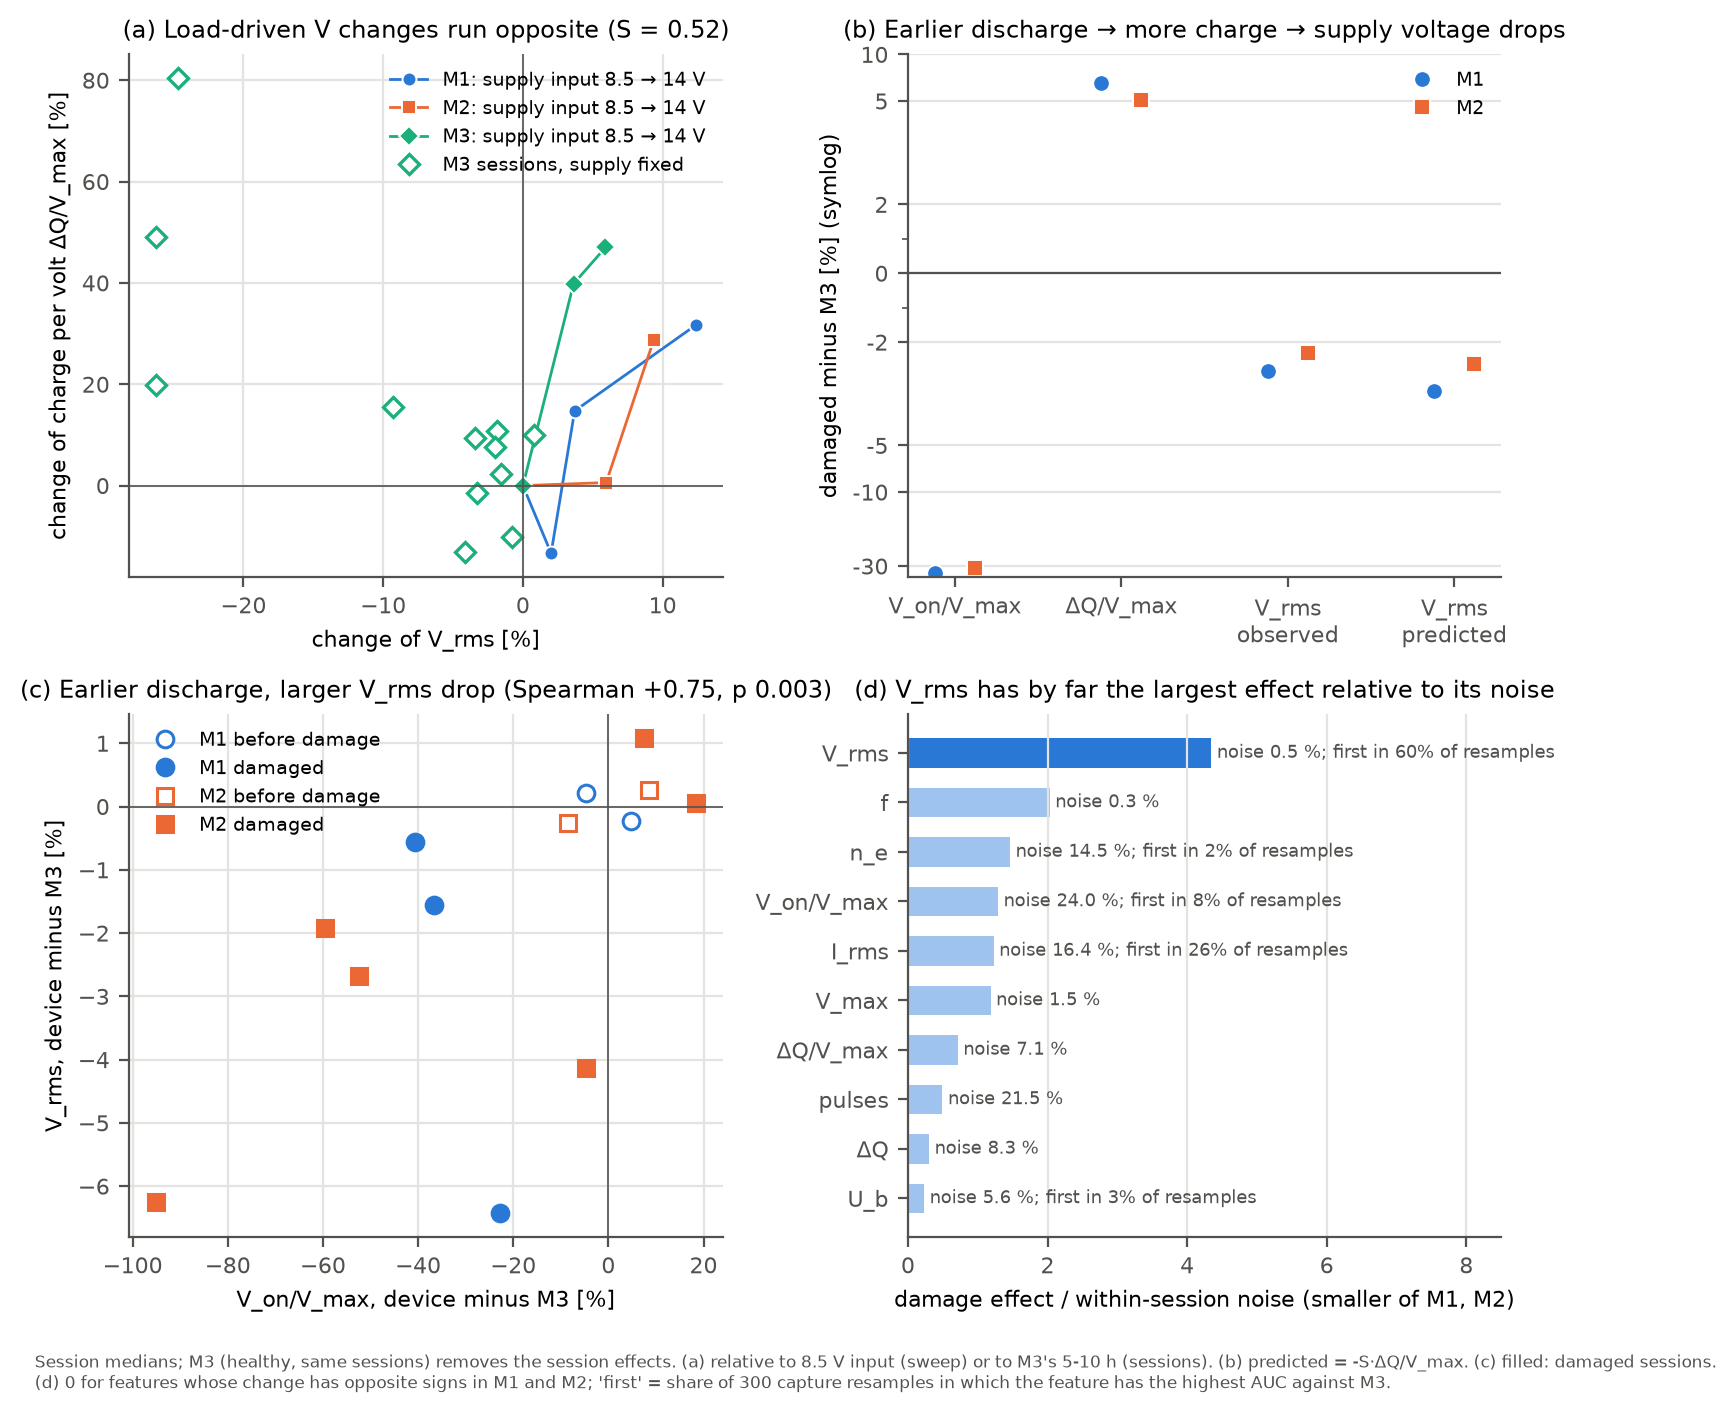
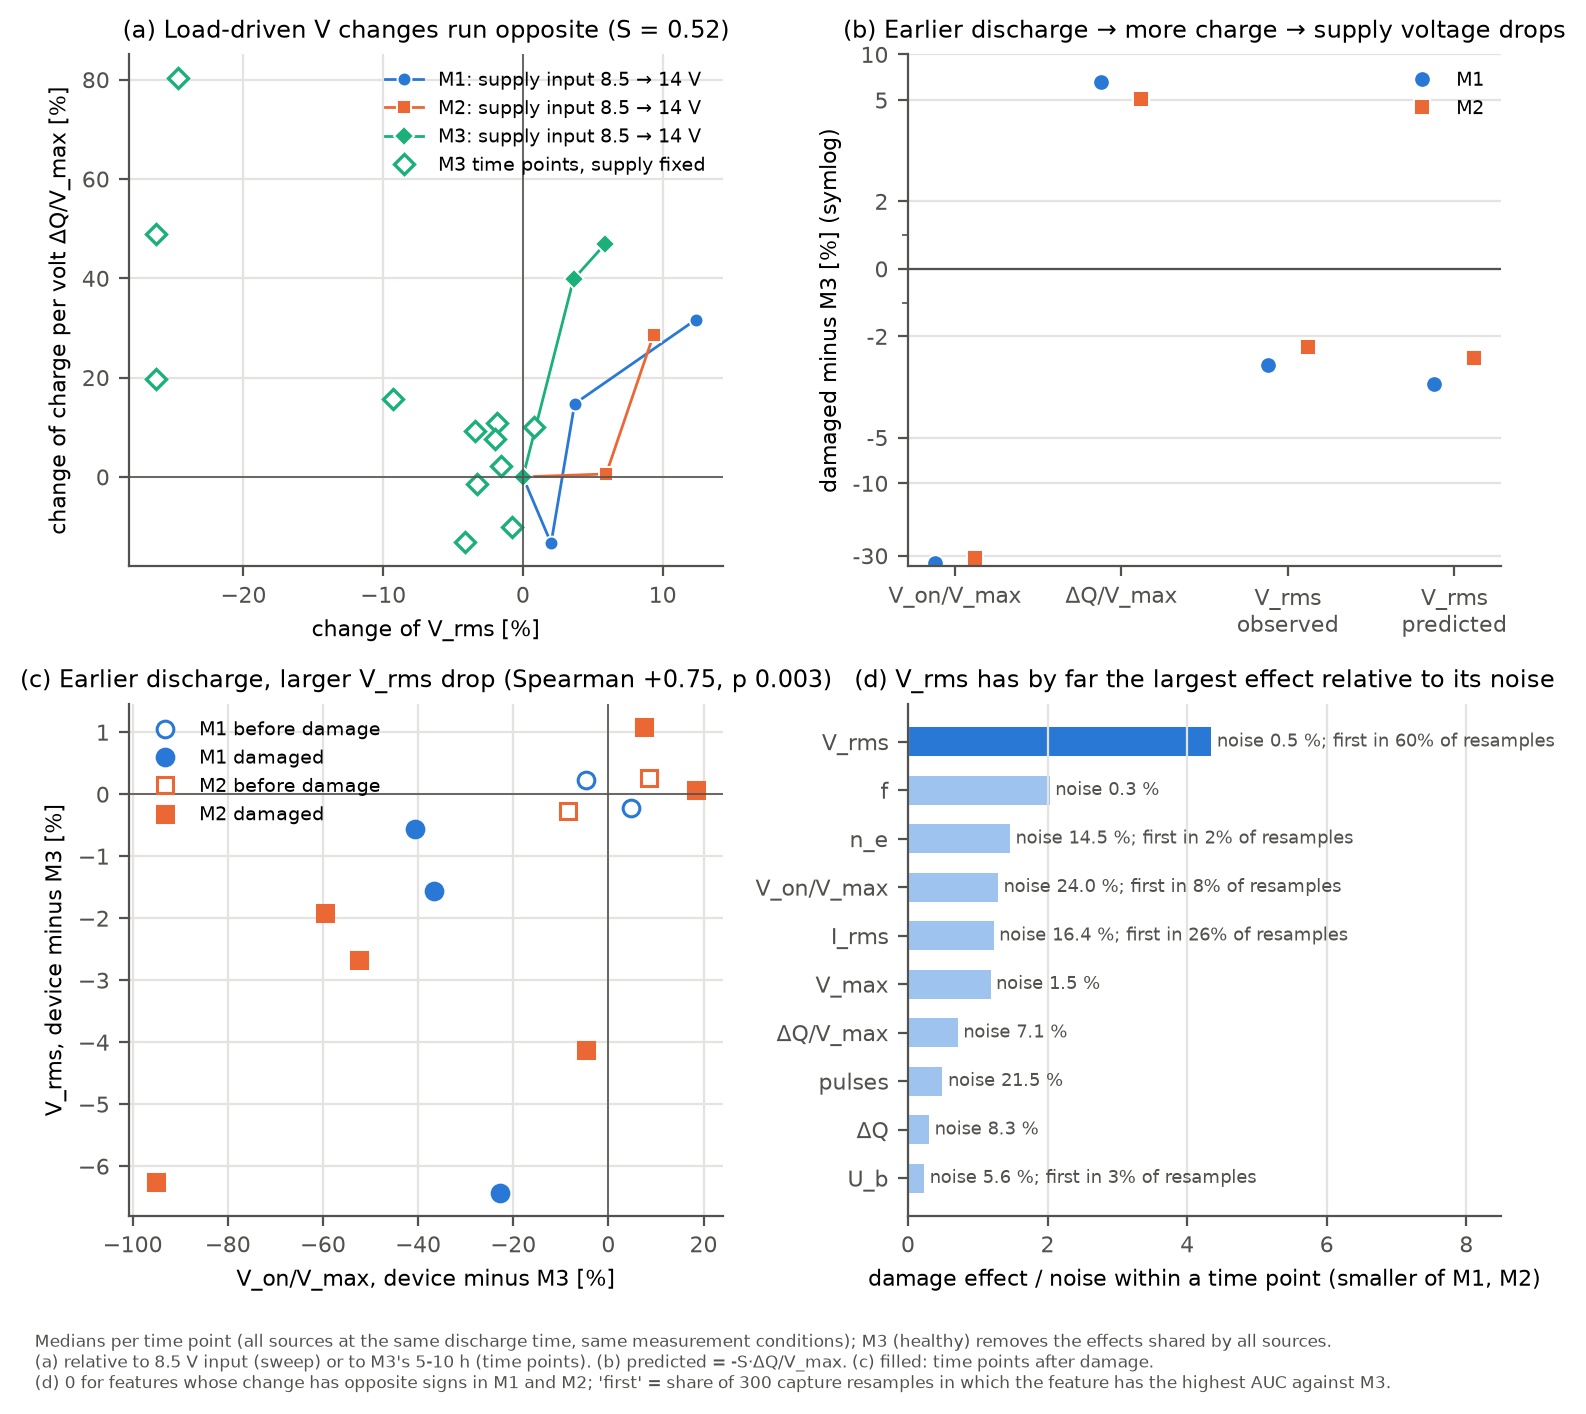
Label the figures by time point instead of session
"Session" is vague in a physics or data paper. The figures now say time
point: all sources measured at the same discharge time under the same
measurement conditions. The footer of vrms_mechanism.png defines it and
calls the effect M3 removes the effects shared by all sources.

consistency_check.py was rerun on the raw archive; every printed number
is identical to the previous run.

diff --git a/examples/consistency_check.py b/examples/consistency_check.py
@@ -361,7 +361,7 @@ def figure_mechanism(mk, out):
     m3 = np.log(mk["m3"])
     base = m3.loc[:10].mean()
     a.plot(100 * (m3.v_rms - base.v_rms), 100 * (m3.q_per_v - base.q_per_v), "D", color=AQUA, mfc="white", mew=1.2, ms=5,
-           label="M3 sessions, supply fixed")
+           label="M3 time points, supply fixed")
     a.axhline(0, color=INK, lw=.6); a.axvline(0, color=INK, lw=.6)
     a.set(xlabel="change of V_rms [%]", ylabel="change of charge per volt ΔQ/V_max [%]",
           title=f"(a) Load-driven V changes run opposite (S = {mk['S']:.2f})")
@@ -382,7 +382,7 @@ def figure_mechanism(mk, out):
     a.legend(loc="upper right")
     a.grid(axis="x", visible=False)
 
-    a = ax[1, 0]  # (c) session by session
+    a = ax[1, 0]  # (c) time point by time point
     r = mk["r"]
     for dev in ("m1", "m2"):
         c, m, lab = DEV[dev]
@@ -402,14 +402,15 @@ def figure_mechanism(mk, out):
         a.text(v + .08, y, f"noise {100 * mk['noise'][k]:.1f} %" + (f"; first in {mk['first'].get(k, 0):.0%} of resamples" if mk['first'].get(k, 0) > 0 else ""),
                va="center", fontsize=6.6, color=INK)
     a.set_yticks(range(len(sc)), [MECH[k] for k in sc.index])
-    a.set(xlim=(0, 8.5), xlabel="damage effect / within-session noise (smaller of M1, M2)",
+    a.set(xlim=(0, 8.5), xlabel="damage effect / noise within a time point (smaller of M1, M2)",
           title="(d) V_rms has by far the largest effect relative to its noise")
     a.grid(axis="y", visible=False)
-    fig.text(.01, .004, "Session medians; M3 (healthy, same sessions) removes the session effects. (a) relative to 8.5 V input "
-             "(sweep) or to M3's 5-10 h (sessions). (b) predicted = -S·ΔQ/V_max. (c) filled: damaged sessions.\n(d) 0 for features whose change has opposite "
+    fig.text(.01, .004, "Medians per time point (all sources at the same discharge time, same measurement conditions); M3 (healthy) "
+             "removes the effects shared by all sources.\n(a) relative to 8.5 V input (sweep) or to M3's 5-10 h (time points). "
+             "(b) predicted = -S·ΔQ/V_max. (c) filled: time points after damage.\n(d) 0 for features whose change has opposite "
              "signs in M1 and M2; 'first' = share of 300 capture resamples in which the feature has the highest AUC against M3.",
              fontsize=6.2, color=INK)
-    fig.tight_layout(rect=(0, .04, 1, 1))
+    fig.tight_layout(rect=(0, .055, 1, 1))
     fig.savefig(Path(out) / "vrms_mechanism.png", bbox_inches="tight")
 
 
@@ -427,7 +428,7 @@ def figure(d, qv, ph, dd, p1, p3, ps, out):
     gs = fig.add_gridspec(4, 2)
     ax = np.array([[fig.add_subplot(gs[r, c]) for c in range(2)] for r in range(3)])
 
-    a = ax[0, 0]  # (a) Lissajous graph of the M3 10 h capture closest to the session median
+    a = ax[0, 0]  # (a) Lissajous graph of the M3 10 h capture closest to the median of its time point
     s = d[(d.kind == "endurance") & (d.device == "m3") & (d.hours == 10) & (d.dt_ns == 10)]
     t, v, i, q, L = plots.one_period(io.load_csv(qv / s.loc[(s.c_dielectric - s.c_dielectric.median()).abs().idxmin(), "file"]))
     a.plot(v / 1e3, q * 1e9, color=INK, lw=.8)
@@ -486,7 +487,7 @@ def figure(d, qv, ph, dd, p1, p3, ps, out):
     a.set_yticks(range(len(feats)), feats)
     a.set(xlabel="change after damage minus M3's change [%]", xlim=(-40, 26),
           title="(d) Against M3, only V_rms drops alike in both devices")
-    a.legend(loc="lower right", title="filled: p < 0.05 (session level)", title_fontsize=6.5, frameon=True,
+    a.legend(loc="lower right", title="filled: p < 0.05 (time-point level)", title_fontsize=6.5, frameon=True,
              facecolor="white", edgecolor="none", framealpha=1)
     a.grid(axis="y", visible=False)
 
@@ -525,13 +526,13 @@ def figure(d, qv, ph, dd, p1, p3, ps, out):
         a.plot([xx, xx], [lo, hi], color=GREY, lw=2.5, zorder=1)
     a.plot(x, ps.E1_auc, "o", color="#eda100", ms=6.5, mec="white", mew=.7, label="E1 periods shuffled at random (5-fold)")
     a.plot(x, ps.E2_within_session_auc, "s", color=INK, ms=5.5, mec="white", mew=.7,
-           label="E2 a session held out (damaged vs M3 within the session)")
+           label="E2 a time point held out (damaged vs M3 within the time point)")
     a.plot(x, e4, "D", color=BLUE, ms=5.5, mec="white", mew=.7, label="E4 relative to M3, the other damaged device")
     a.axhline(.5, color=INK, lw=.8, ls=":")
     a.set_xticks(x, [f"{n}{' *' if n in THESIS_MODELS else ''}".replace(" only (LR)", " alone") for n in ps.index],
                  rotation=25, ha="right")
     a.set(ylim=(.3, 1.02), ylabel="AUC",
-          title="(g) Single periods, two per capture: shuffling looks excellent; held-out sessions and devices do not")
+          title="(g) Single periods, two per capture: shuffling looks excellent; held-out time points and devices do not")
     a.legend(loc="lower left", frameon=True, facecolor="white", edgecolor="none", framealpha=1)
     a.grid(axis="x", visible=False)
 
